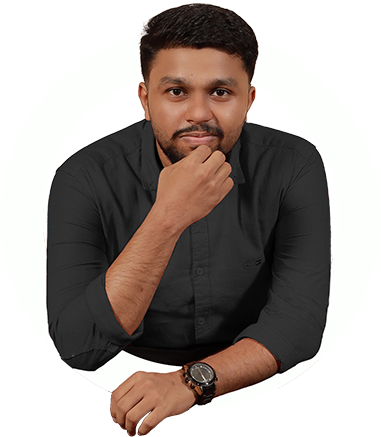
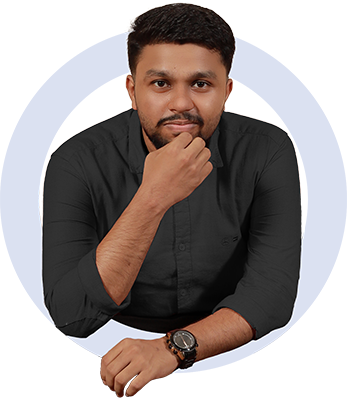
Updated images changed corresponding requirment

diff --git a/lib/screens/desktop component/home_desktop.dart b/lib/screens/desktop component/home_desktop.dart
@@ -88,7 +88,7 @@ class HomeDesktop extends StatelessWidget {
             clipBehavior: Clip.hardEdge,
             children: [
               SizedBox(
-                width: 480,
+                width: 420,
                 child: Row(
                   mainAxisAlignment: MainAxisAlignment.spaceEvenly,
                   children: [
@@ -105,9 +105,9 @@ class HomeDesktop extends StatelessWidget {
               ),
               Center(
                 child: SizedBox(
-                  width: 480,
-                  height: 480,
-                  child: Image.asset('portfolioImg.png', fit: BoxFit.fitHeight),
+                  width: 420,
+                  height: 420,
+                  child: Image.asset('portfolioImg.png', fit: BoxFit.contain),
                 ),
               ),
             ],
@@ -125,8 +125,6 @@ class HomeDesktop extends StatelessWidget {
 }
 
 Widget buildSocialButtons() => Container(
-      //color: const Color(0xff1F2233),
-      //color: const Color(0xff0F044C),
       child: Column(
         mainAxisAlignment: MainAxisAlignment.center,
         children: [
@@ -148,7 +146,8 @@ Widget buildSocialButton({
   required VoidCallback onClicked,
 }) =>
     InkWell(
-      child: SizedBox(
+      child: Container(
+        color: kSecondaryColor,
         width: 64,
         height: 64,
         child: Center(
